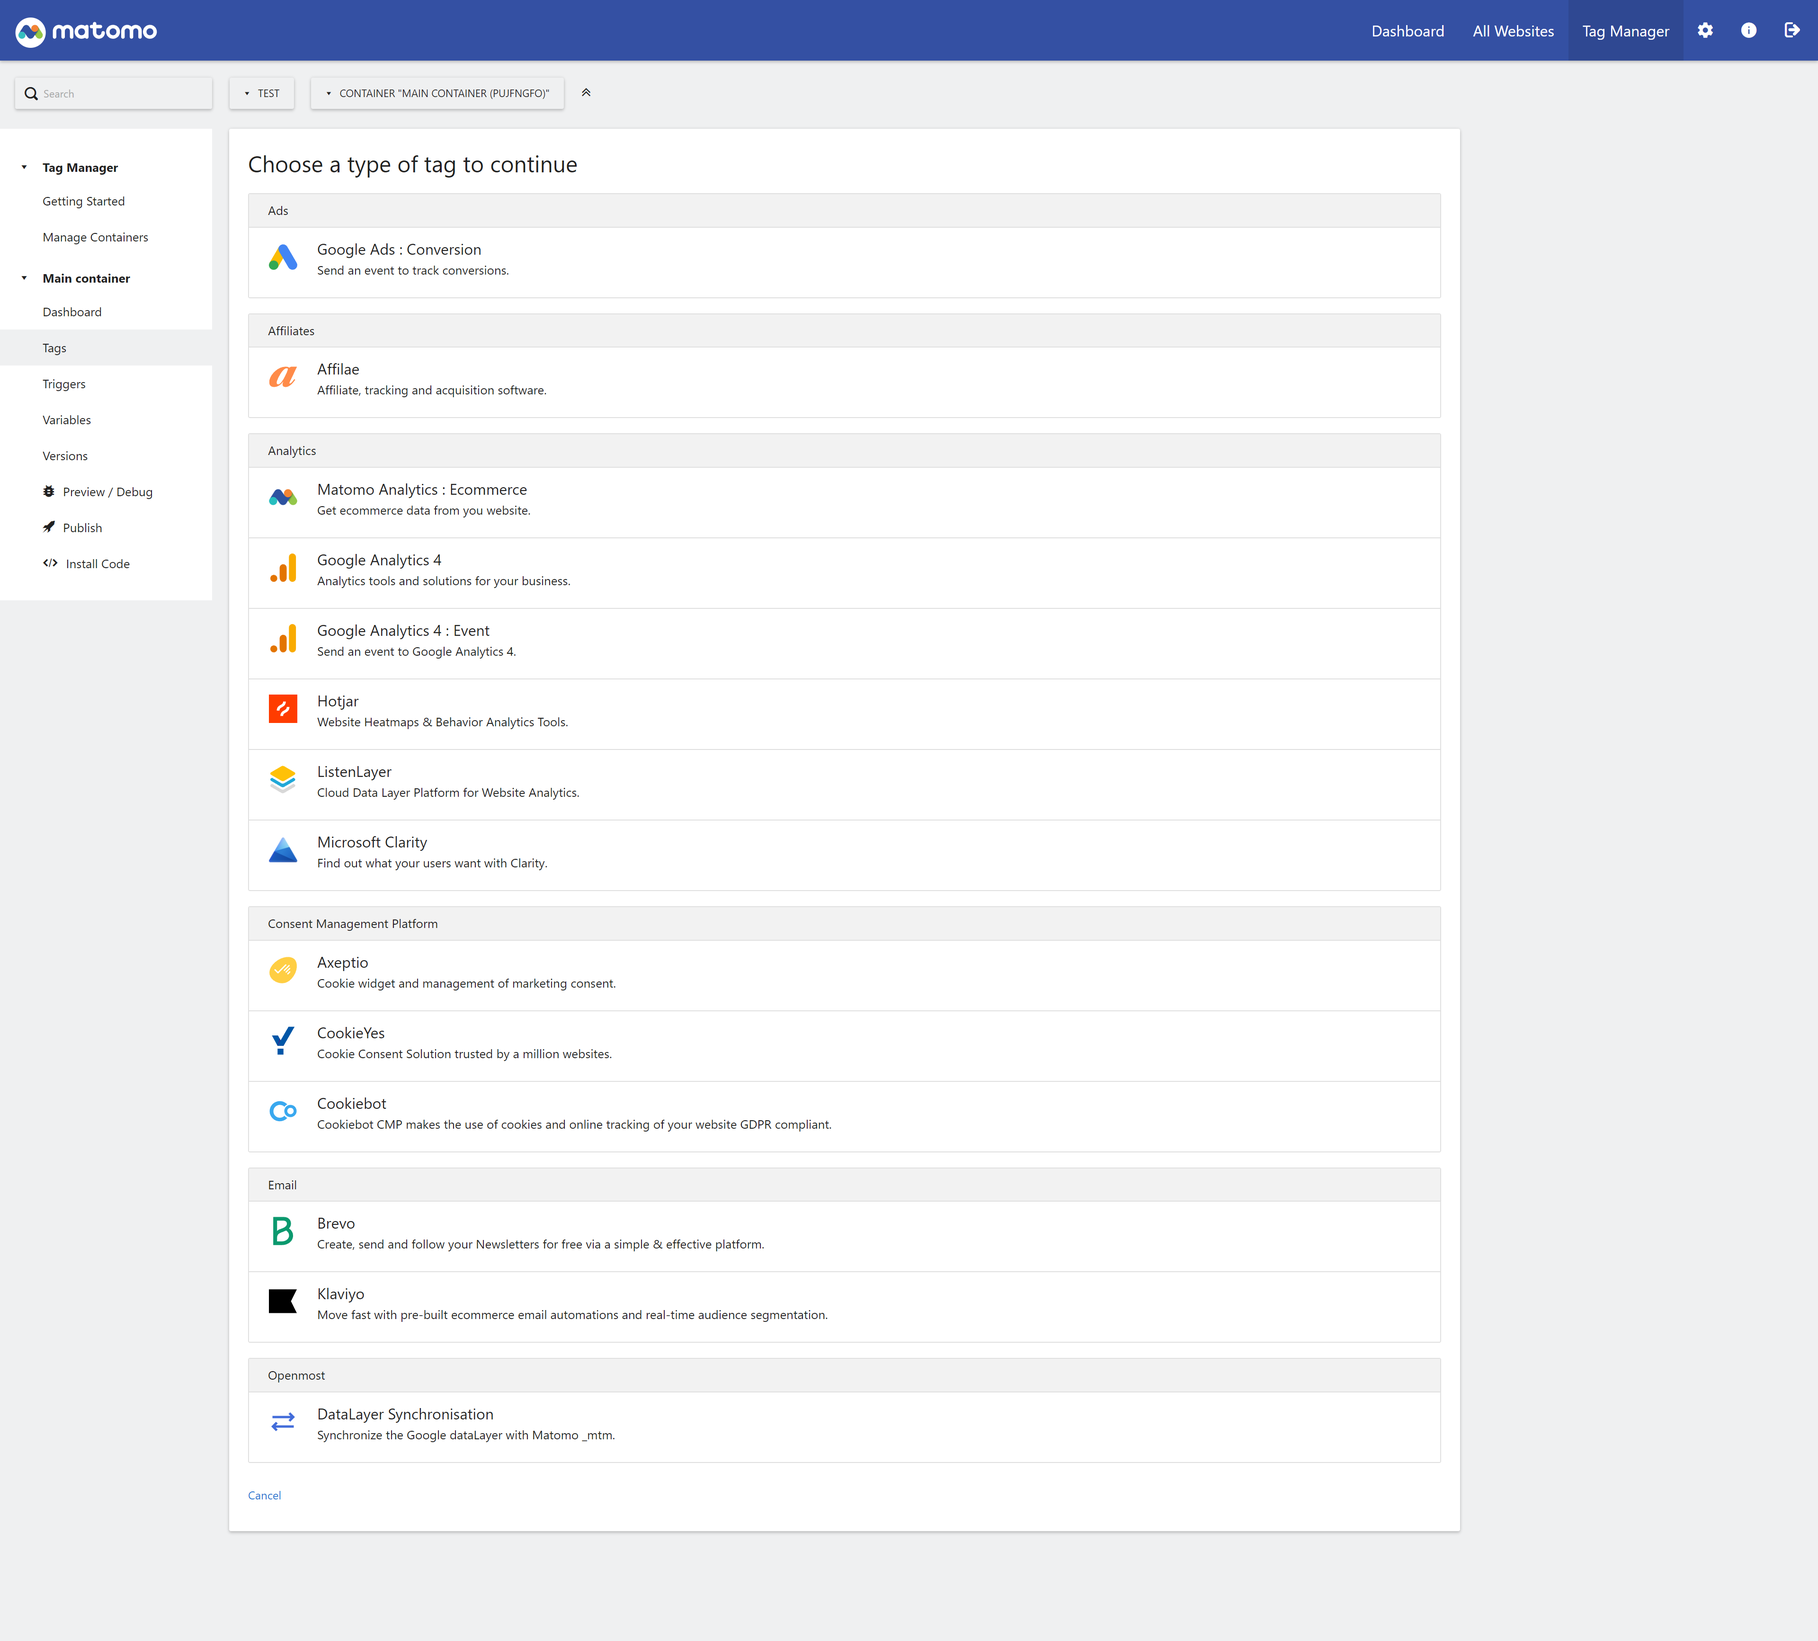
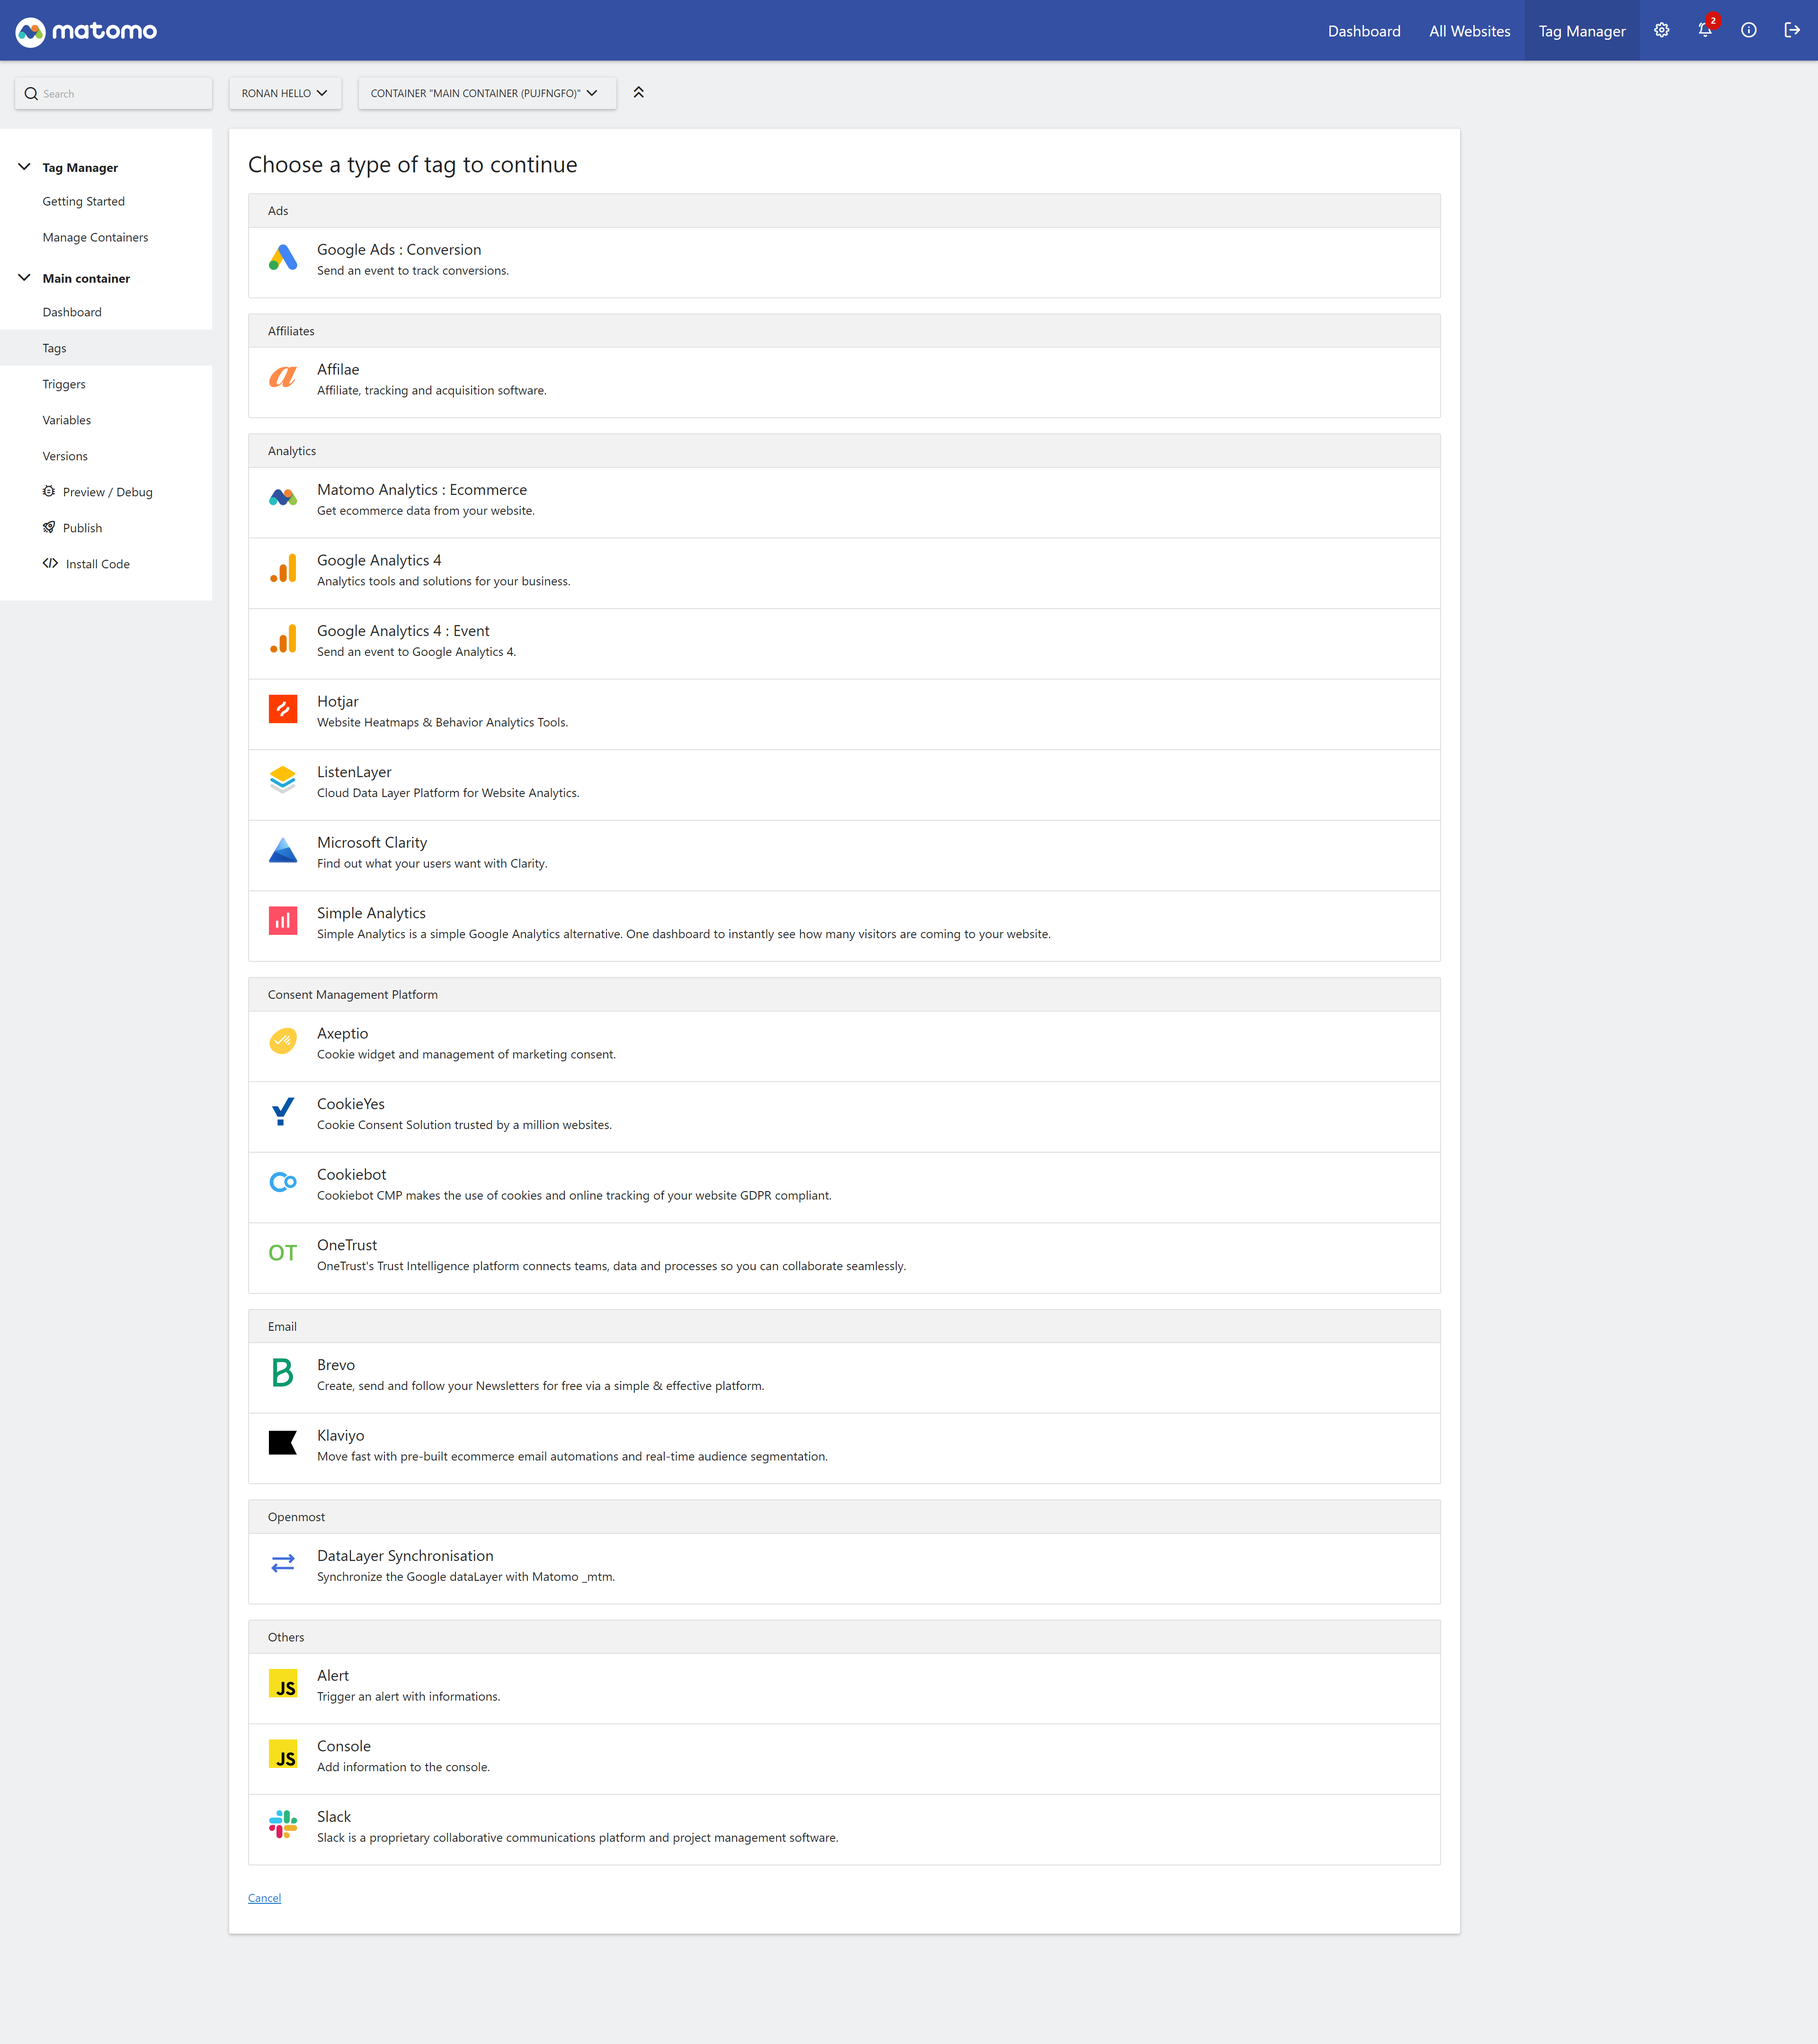
add: Tags

Changed region(s): [[0.0, 0.0, 1.0, 0.9036], [0.0312, 0.187, 0.0625, 0.2804], [0.125, 0.9036, 0.1562, 0.9348]]

diff --git a/Template/Tag/SimpleAnalyticsTag.web.js b/Template/Tag/SimpleAnalyticsTag.web.js
@@ -1,0 +1,16 @@
+(function () {
+    return function (parameters, TagManager) {
+        this.fire = function () {
+
+          (function (d, s) {
+            var t = d.getElementsByTagName(s)[0], e = d.createElement(s);
+            e.type = "text/javascript";
+            e.src = "https://scripts.simpleanalyticscdn.com/latest.js";
+            e.async = true;
+            e.defer = true;
+            t.parentNode.insertBefore(e, t);
+          })(document, "script");
+
+        };
+    };
+})();

diff --git a/Template/Tag/ConsoleTag.web.js b/Template/Tag/ConsoleTag.web.js
@@ -1,0 +1,12 @@
+(function () {
+    return function (parameters, TagManager) {
+        this.fire = function () {
+
+          const consoleType = parameters.get('consoleType');
+          const content = parameters.get('content');
+
+          console[consoleType](content);
+
+        };
+    };
+})();

diff --git a/Template/Tag/AlertTag.web.js b/Template/Tag/AlertTag.web.js
@@ -1,0 +1,11 @@
+(function () {
+    return function (parameters, TagManager) {
+        this.fire = function () {
+
+          const content = parameters.get('content');
+
+          alert(content);
+
+        };
+    };
+})();

diff --git a/Template/Tag/ConsoleTag.php b/Template/Tag/ConsoleTag.php
@@ -1,0 +1,83 @@
+<?php
+/**
+ * Matomo - free/libre analytics platform
+ *
+ * @link https://matomo.org
+ * @license http://www.gnu.org/licenses/gpl-3.0.html GPL v3 or later
+ */
+
+namespace Piwik\Plugins\TagManagerExtended\Template\Tag;
+
+use Piwik\Piwik;
+use Piwik\Settings\FieldConfig;
+use Piwik\Plugins\TagManager\Template\Tag\BaseTag;
+use Piwik\Validators\NotEmpty;
+
+class ConsoleTag extends BaseTag
+{
+    public function getName()
+    {
+        // By default, the name will be automatically fetched from the TagManagerExtended_CustomHtmlTagName translation key.
+        // you can either adjust/create/remove this translation key, or return a different value here directly.
+        return parent::getName();
+    }
+
+    public function getDescription()
+    {
+        // By default, the description will be automatically fetched from the TagManagerExtended_CustomHtmlTagDescription
+        // translation key. you can either adjust/create/remove this translation key, or return a different value
+        // here directly.
+        return parent::getDescription();
+    }
+
+    public function getHelp()
+    {
+        // By default, the help will be automatically fetched from the TagManagerExtended_CustomHtmlTagHelp translation key.
+        // you can either adjust/create/remove this translation key, or return a different value here directly.
+        return parent::getHelp();
+    }
+
+    public function getCategory()
+    {
+        return self::CATEGORY_OTHERS;
+    }
+
+    public function getIcon()
+    {
+        // You may optionally specify a path to an image icon URL, for example:
+        //
+        // return 'plugins/TagManagerExtended/images/MyIcon.png';
+        //
+        // to not return default icon call:
+        // return parent::getIcon();
+        //
+        // The image should have ideally a resolution of about 64x64 pixels.
+        return 'plugins/TagManagerExtended/images/icons/tag/javascript.svg';
+    }
+
+    public function getParameters()
+    {
+        return array(
+            $this->makeSetting('consoleType', 'log', FieldConfig::TYPE_ARRAY, function (FieldConfig $field) {
+                $field->title = Piwik::translate('TagManagerExtended_ConsoleTagTypeTitle');
+                $field->description = Piwik::translate('TagManagerExtended_ConsoleTagTypeDescription');
+                $field->uiControl = FieldConfig::UI_CONTROL_SINGLE_SELECT;
+                $field->availableValues = array(
+                    'log' => 'log',
+                    'warn' => 'warn',
+                    'error' => 'error',
+                    'table' => 'table',
+                    'dir' => 'dir',
+                );
+                $field->validators[] = new NotEmpty();
+            }),
+            $this->makeSetting('content', '', FieldConfig::TYPE_STRING, function (FieldConfig $field) {
+                $field->title = Piwik::translate('TagManagerExtended_ConsoleTagContentTitle');
+                $field->description = Piwik::translate('TagManagerExtended_ConsoleTagContentDescription');
+                $field->customFieldComponent = self::FIELD_VARIABLE_COMPONENT;
+                $field->validators[] = new NotEmpty();
+            }),
+        );
+    }
+
+}

diff --git a/Template/Tag/AlertTag.php b/Template/Tag/AlertTag.php
@@ -1,0 +1,69 @@
+<?php
+/**
+ * Matomo - free/libre analytics platform
+ *
+ * @link https://matomo.org
+ * @license http://www.gnu.org/licenses/gpl-3.0.html GPL v3 or later
+ */
+namespace Piwik\Plugins\TagManagerExtended\Template\Tag;
+
+use Piwik\Piwik;
+use Piwik\Settings\FieldConfig;
+use Piwik\Plugins\TagManager\Template\Tag\BaseTag;
+use Piwik\Validators\NotEmpty;
+
+class AlertTag extends BaseTag
+{
+    public function getName()
+    {
+        // By default, the name will be automatically fetched from the TagManagerExtended_CustomHtmlTagName translation key.
+        // you can either adjust/create/remove this translation key, or return a different value here directly.
+        return parent::getName();
+    }
+
+    public function getDescription()
+    {
+        // By default, the description will be automatically fetched from the TagManagerExtended_CustomHtmlTagDescription
+        // translation key. you can either adjust/create/remove this translation key, or return a different value
+        // here directly.
+        return parent::getDescription();
+    }
+
+    public function getHelp()
+    {
+        // By default, the help will be automatically fetched from the TagManagerExtended_CustomHtmlTagHelp translation key.
+        // you can either adjust/create/remove this translation key, or return a different value here directly.
+        return parent::getHelp();
+    }
+
+    public function getCategory()
+    {
+        return self::CATEGORY_OTHERS;
+    }
+
+    public function getIcon()
+    {
+        // You may optionally specify a path to an image icon URL, for example:
+        //
+        // return 'plugins/TagManagerExtended/images/MyIcon.png';
+        //
+        // to not return default icon call:
+        // return parent::getIcon();
+        //
+        // The image should have ideally a resolution of about 64x64 pixels.
+        return 'plugins/TagManagerExtended/images/icons/tag/javascript.svg';
+    }
+
+    public function getParameters()
+    {
+        return array(
+            $this->makeSetting('content', '', FieldConfig::TYPE_STRING, function (FieldConfig $field) {
+                $field->title = Piwik::translate('TagManagerExtended_AlertTagContentTitle');
+                $field->description = Piwik::translate('TagManagerExtended_AlertTagContentDescription');
+                $field->customFieldComponent = self::FIELD_VARIABLE_COMPONENT;
+                $field->validators[] = new NotEmpty();
+            }),
+        );
+    }
+
+}

diff --git a/Template/Tag/SimpleAnalyticsTag.php b/Template/Tag/SimpleAnalyticsTag.php
@@ -1,0 +1,62 @@
+<?php
+/**
+ * Matomo - free/libre analytics platform
+ *
+ * @link https://matomo.org
+ * @license http://www.gnu.org/licenses/gpl-3.0.html GPL v3 or later
+ */
+namespace Piwik\Plugins\TagManagerExtended\Template\Tag;
+
+use Piwik\Piwik;
+use Piwik\Settings\FieldConfig;
+use Piwik\Plugins\TagManager\Template\Tag\BaseTag;
+use Piwik\Validators\NotEmpty;
+
+class SimpleAnalyticsTag extends BaseTag
+{
+    public function getName()
+    {
+        // By default, the name will be automatically fetched from the TagManagerExtended_CustomHtmlTagName translation key.
+        // you can either adjust/create/remove this translation key, or return a different value here directly.
+        return parent::getName();
+    }
+
+    public function getDescription()
+    {
+        // By default, the description will be automatically fetched from the TagManagerExtended_CustomHtmlTagDescription
+        // translation key. you can either adjust/create/remove this translation key, or return a different value
+        // here directly.
+        return parent::getDescription();
+    }
+
+    public function getHelp()
+    {
+        // By default, the help will be automatically fetched from the TagManagerExtended_CustomHtmlTagHelp translation key.
+        // you can either adjust/create/remove this translation key, or return a different value here directly.
+        return parent::getHelp();
+    }
+
+    public function getCategory()
+    {
+        return self::CATEGORY_ANALYTICS;
+    }
+
+    public function getIcon()
+    {
+        // You may optionally specify a path to an image icon URL, for example:
+        //
+        // return 'plugins/TagManagerExtended/images/MyIcon.png';
+        //
+        // to not return default icon call:
+        // return parent::getIcon();
+        //
+        // The image should have ideally a resolution of about 64x64 pixels.
+        return 'plugins/TagManagerExtended/images/icons/tag/simple-analytics.svg';
+    }
+
+    public function getParameters()
+    {
+        return array();
+    }
+
+}

diff --git a/docs/index.md b/docs/index.md
@@ -30,6 +30,7 @@ This plugin adds several useful tags, triggers and variables to the Tag Manager 
 - Google Analytics 4 : Event
 - Hotjar
 - Microsoft Clarity
+- Simple Analytics
 
 **[Consent Management Platform]**
 
@@ -49,6 +50,8 @@ This plugin adds several useful tags, triggers and variables to the Tag Manager 
 
 **[Others]**
 
+- Alert
+- Console
 - Slack
 
 <hr>  

diff --git a/CHANGELOG.md b/CHANGELOG.md
@@ -1,5 +1,13 @@
 ## Changelog
 
+### v5.0.3
+
+Add tag to Tag Manager
+
+- Simple Analytics
+- Alert
+- Console
+
 ### v5.0.2
 
 Add tag to Tag Manager
